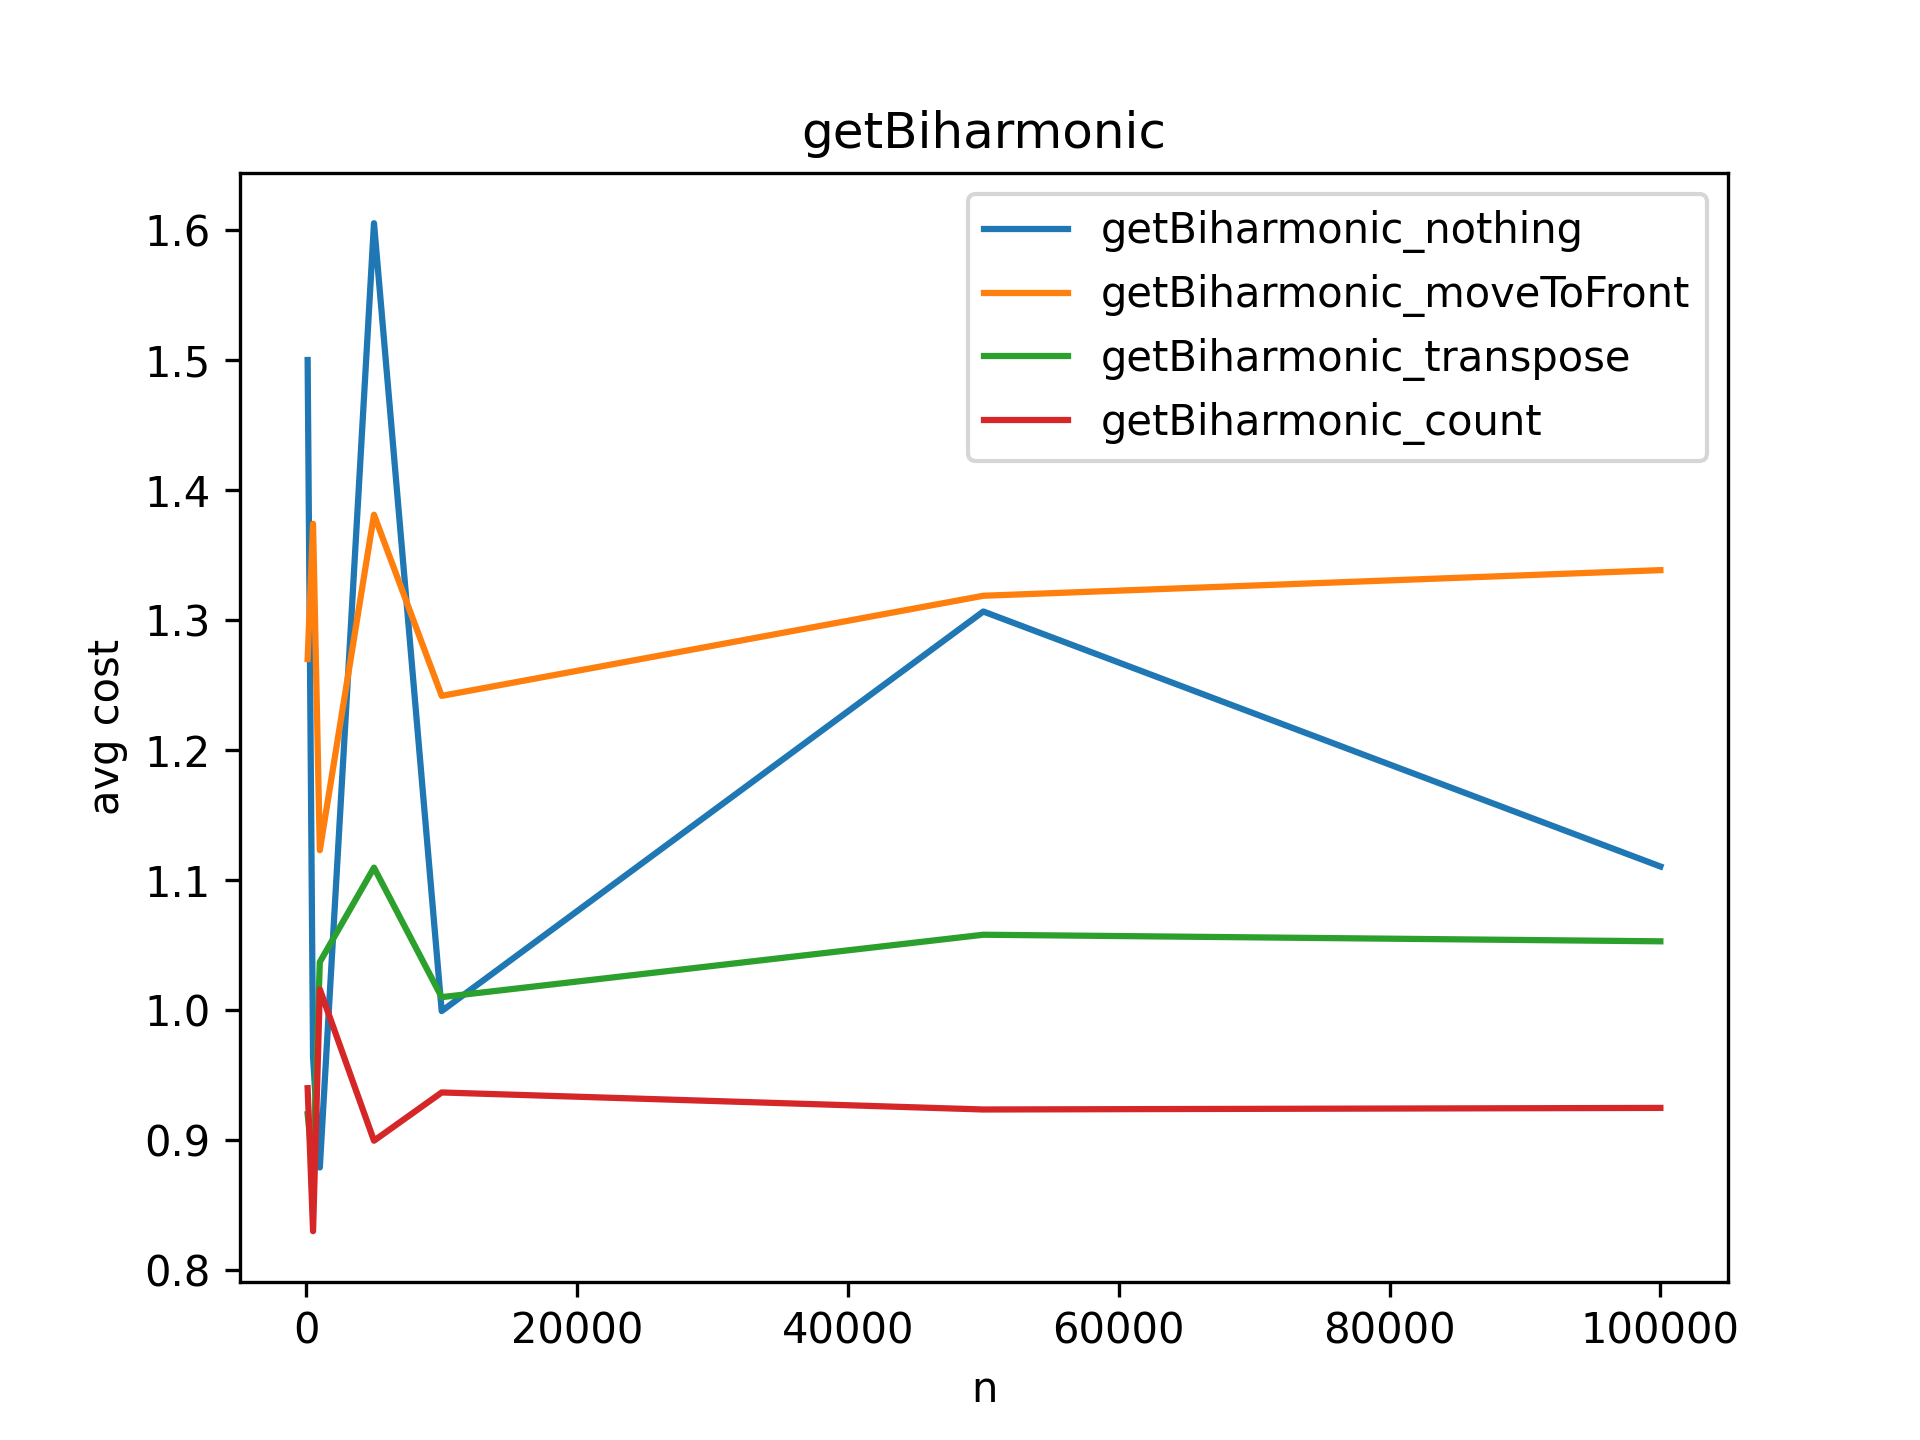
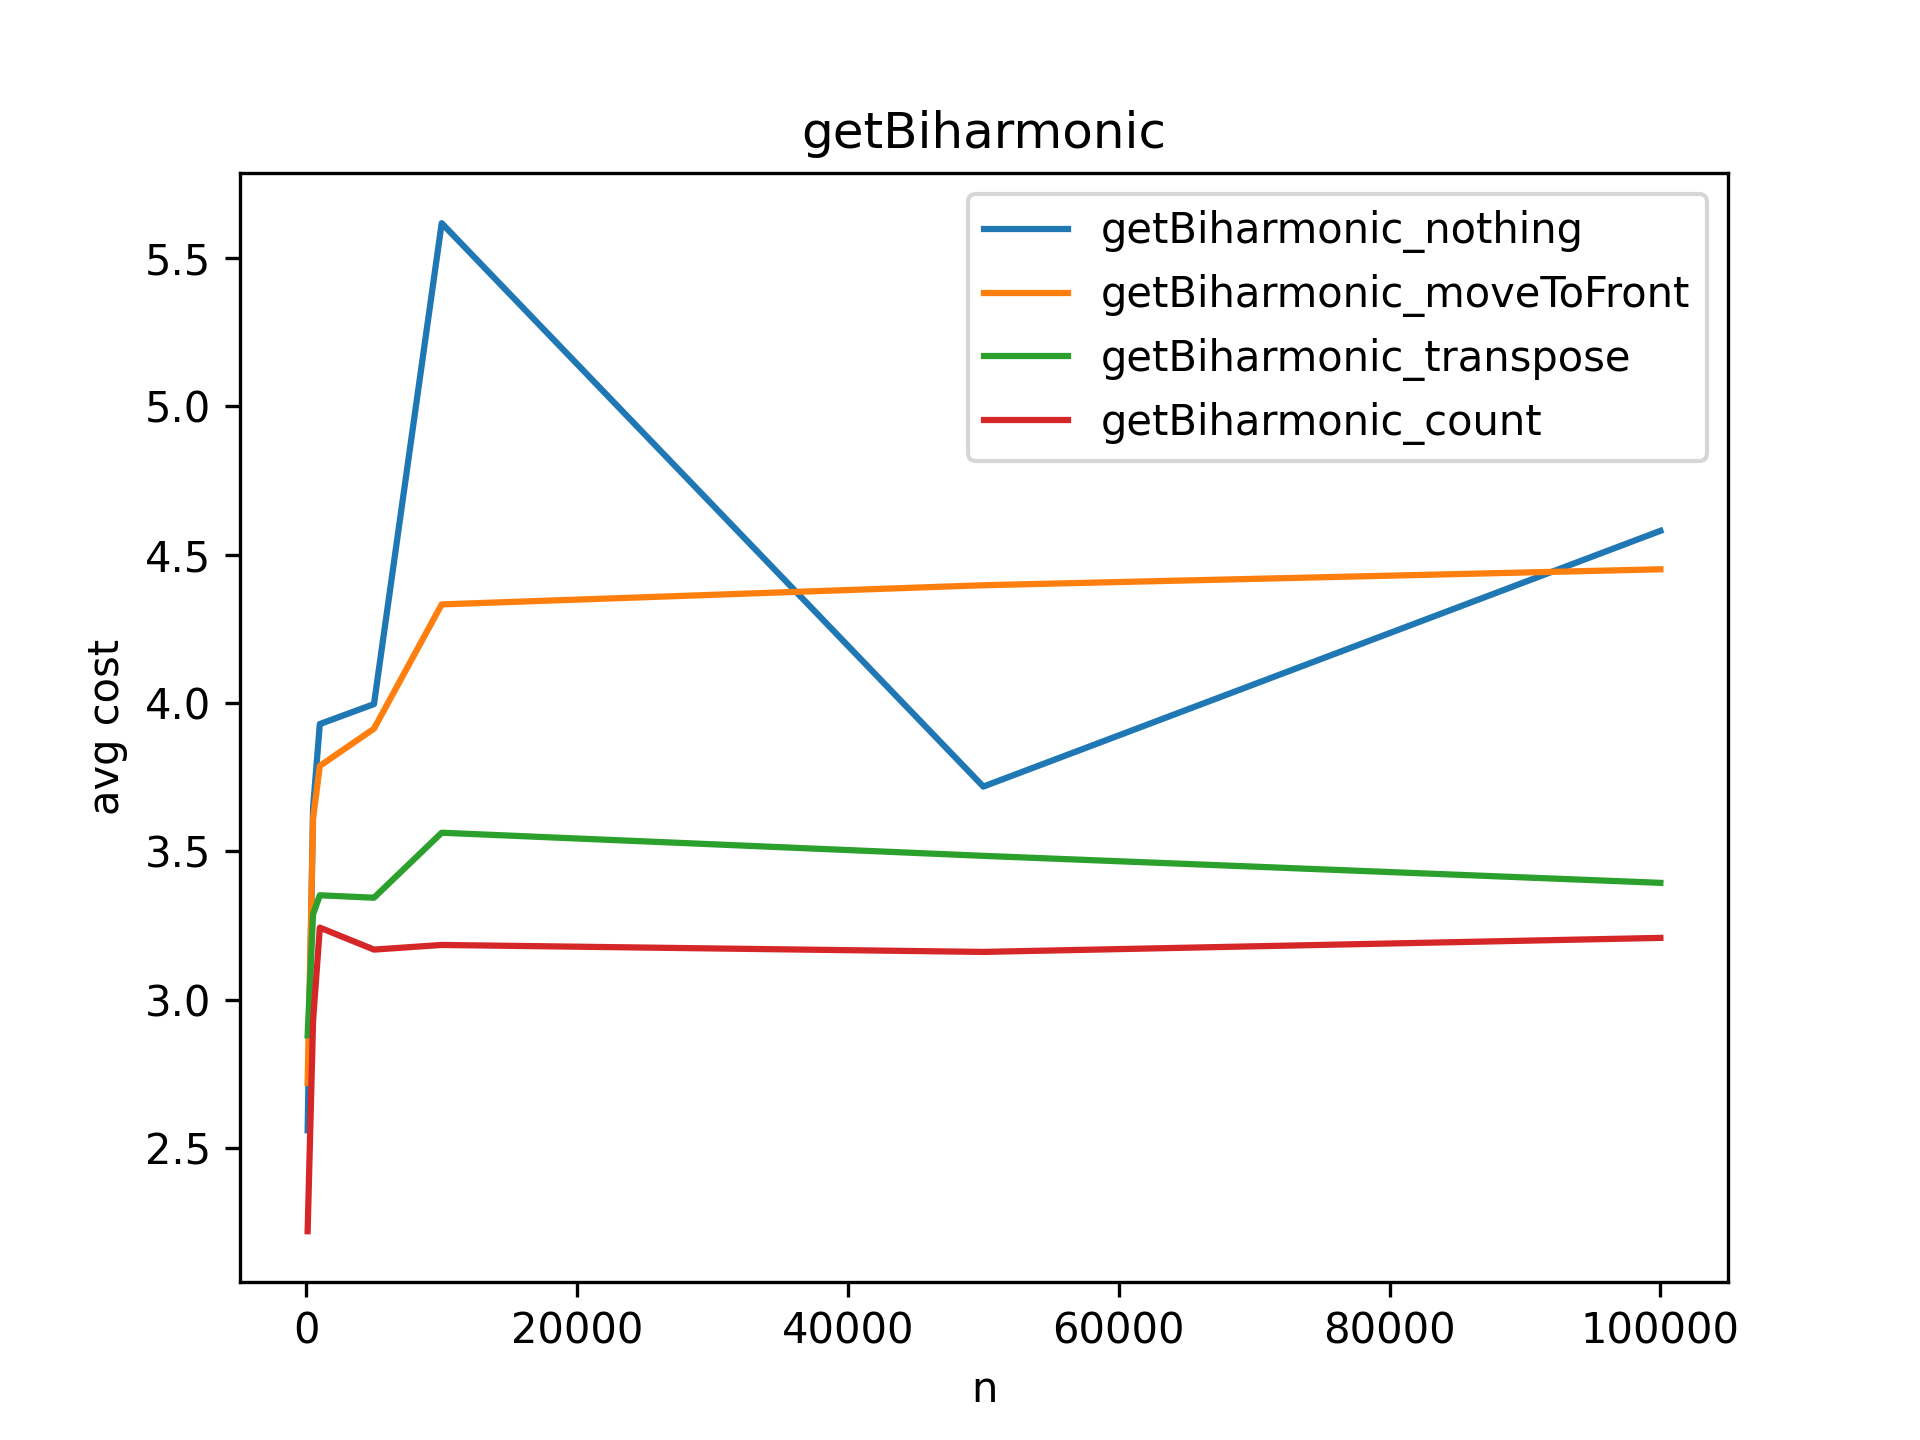
Distributions fixed, graphs adjusted

diff --git a/Labo/L1/z1.py b/Labo/L1/z1.py
@@ -8,22 +8,28 @@ def getUniform():
 
 def getHarmonic():
     r = rand.random()
+    sum = 0
     for i in range(1,100):
-        if r >= (1 / (i * H_100)):
+        sum += 1 / (i * H_100)
+        if r < sum:
             return i
     return 100
 
 def getBiharmonic():
     r = rand.random()
+    sum = 0
     for i in range(1,100):
-        if r >= (1 / (pow(i, 2) * Hb_100)):
+        sum += 1 / (pow(i, 2) * Hb_100)
+        if r < sum:
             return i
     return 100
 
 def getGeometric():
     r = rand.random()
+    sum = 0
     for i in range(1,100):
-        if r >= pow(2, -i):
+        sum += pow(2, -i)
+        if r < sum:
             return i
     return 100
 
@@ -78,6 +84,6 @@ for n in n_vals:
                 x = dist()
                 c = access(list, x)
                 order(list, counters, c)
-                total_cost += c
+                total_cost += c + 1
             f.write("{},".format(total_cost/n))
     f.write("\n")
